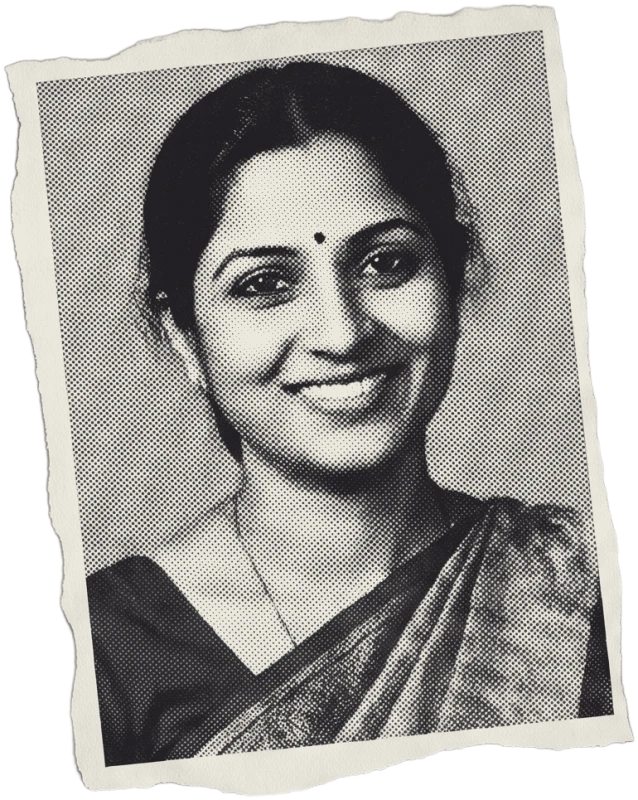
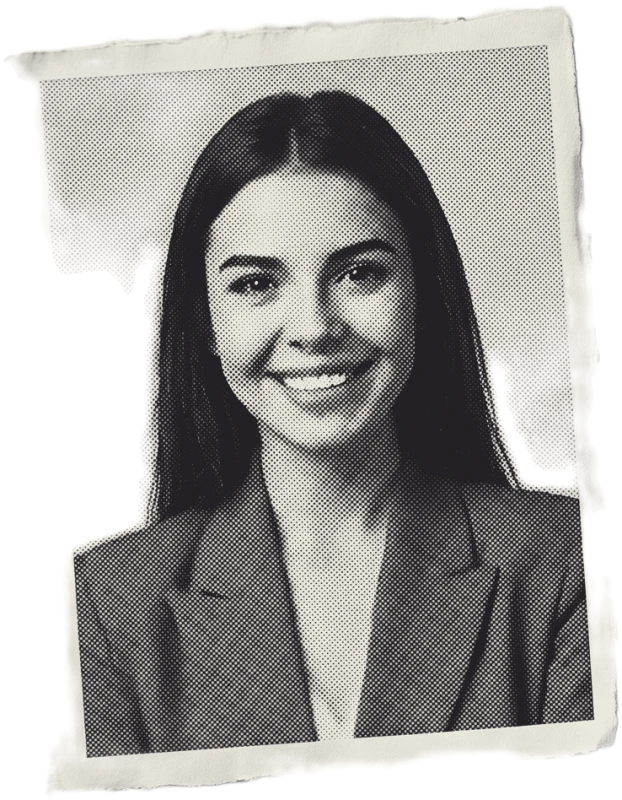
SM explainer: replace people art with modern metro-city consumers
Claude-Session: https://claude.ai/code/session_011HgaDuifbQn9tdHoK5jFTR

diff --git a/SM explainer/index.html b/SM explainer/index.html
@@ -101,7 +101,7 @@ i.ln{display:block;height:13px;background:#bdb6a8}
 <div id="s5" class="clip" data-start="16.9" data-duration="5.8" data-track-index="3">
   <div class="bgp" id="s5bg"></div>
   <img class="p sh" id="s5crowd" src="assets/crowd.webp" style="left:90px;top:170px;width:900px;transform:rotate(-2deg)" alt="">
-  <div class="note sh" id="s5aud" style="left:640px;top:680px;transform:rotate(4deg);background:var(--yel);font-size:50px">your audience</div>
+  <div class="note sh" id="s5aud" style="left:650px;top:600px;transform:rotate(4deg);background:var(--yel);font-size:50px">your audience</div>
   <div class="p" id="s5vl" style="left:60px;top:860px;transform:rotate(-2deg)"><span class="bar" style="font-size:52px">value</span></div>
   <div class="p" id="s5track" style="left:330px;top:858px;width:690px;height:78px;background:var(--paper);border:7px solid var(--ink);transform:rotate(-2deg)">
     <div id="s5fill" style="position:absolute;left:6px;top:6px;bottom:6px;width:0;background:var(--pur)"></div>

diff --git a/SM explainer/scripts/prep_art.py b/SM explainer/scripts/prep_art.py
@@ -27,22 +27,28 @@ def split(i, minarea=30000):
 
 def duo(img, name, extra=()):
     tmp = os.path.join(ROOT, 'art', '_t.png'); cv2.imwrite(tmp, img)
-    subprocess.run([sys.executable, '-I', DUO, tmp, os.path.join(A, name + '.png'), *extra], check=True, capture_output=True)
-    os.remove(tmp)
+    out = os.path.join(ROOT, 'art', '_d.png')
+    subprocess.run([sys.executable, '-I', DUO, tmp, out, *extra], check=True, capture_output=True)
+    cv2.imwrite(os.path.join(A, name + '.webp'), cv2.imread(out, cv2.IMREAD_UNCHANGED), [cv2.IMWRITE_WEBP_QUALITY, 90])
+    os.remove(tmp); os.remove(out)
 
 # sheet -> names in reading order (rows top->bottom, then left->right); None = skip
 NAMES = {
     's0': ['bulb', 'magnifier', 'book', 'pouch'],
-    's1': None,  # filled in after inspecting the split
+    's1': ['ball', 'diya', 'bat', 'bauble'],
     's2': ['hand_plug', 'hand_phone'],
     's3': ['tv', 'masks'],
     's4': ['face_smile', 'face_cry', 'face_laugh'],
     's5': ['face_empathy', 'face_sympathy', 'hob', 'hony'],
     's6': ['crowd'],
+    # v2 people: modern metro-city consumers (replace s4/s5/s6 people)
+    'p0': ['crowd'],
+    'p1': ['face_smile', 'face_cry', 'face_laugh'],
+    'p2': ['face_empathy', 'face_sympathy', 'hob'],
 }
 YEL = {'hand_phone', 'tv'}
 if __name__ == '__main__':
-    only = sys.argv[1:] or list(NAMES)
+    only = sys.argv[1:] or [k for k in NAMES if k not in ('s4', 's5', 's6')]
     for sh in only:
         src = os.path.join(RB, sh + '.png')
         if not os.path.exists(src): print('missing', src); continue
